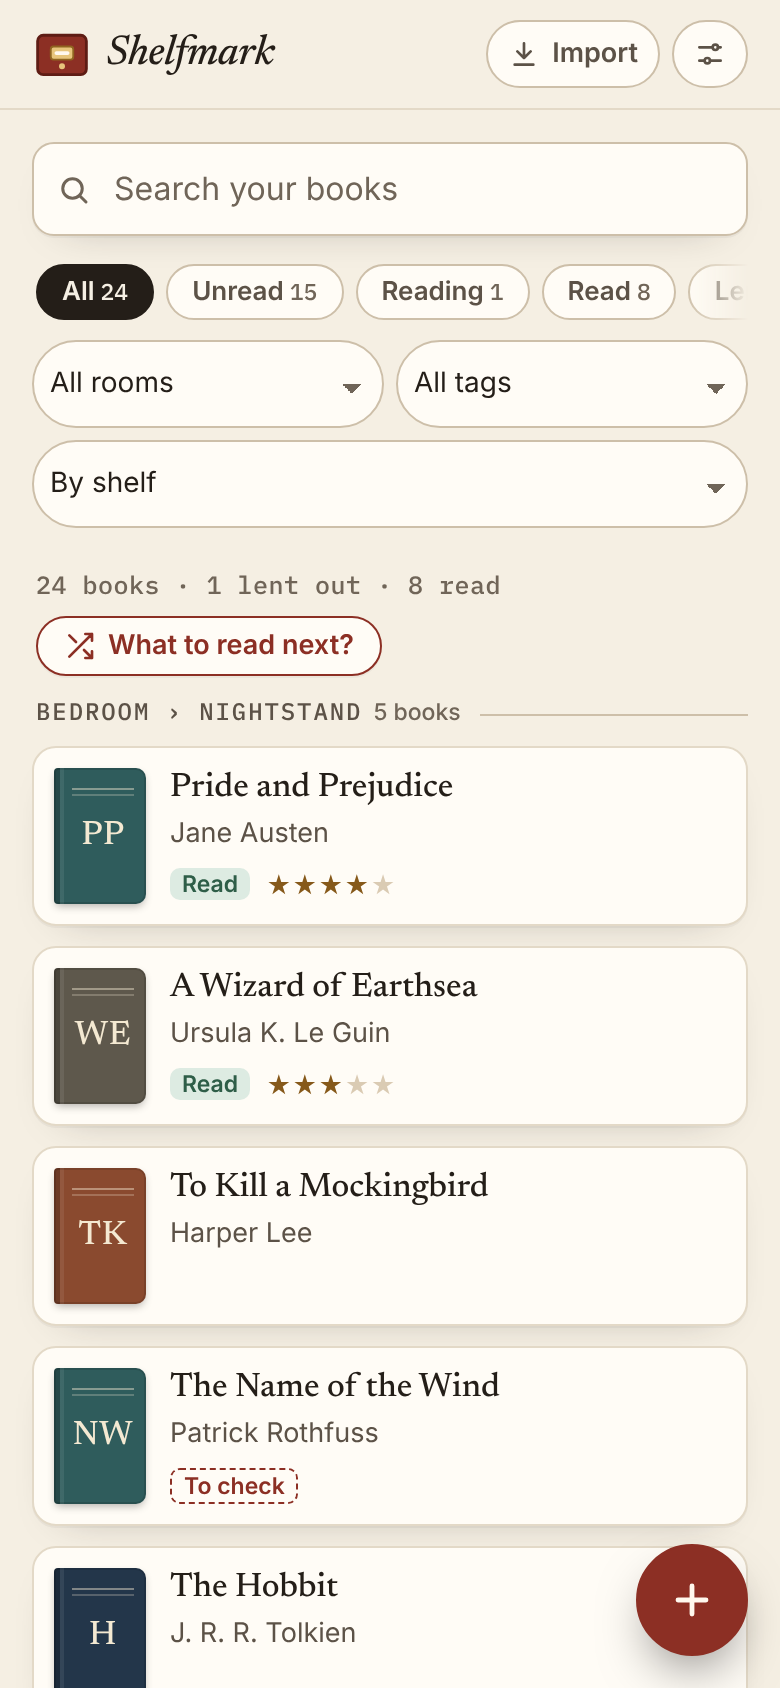
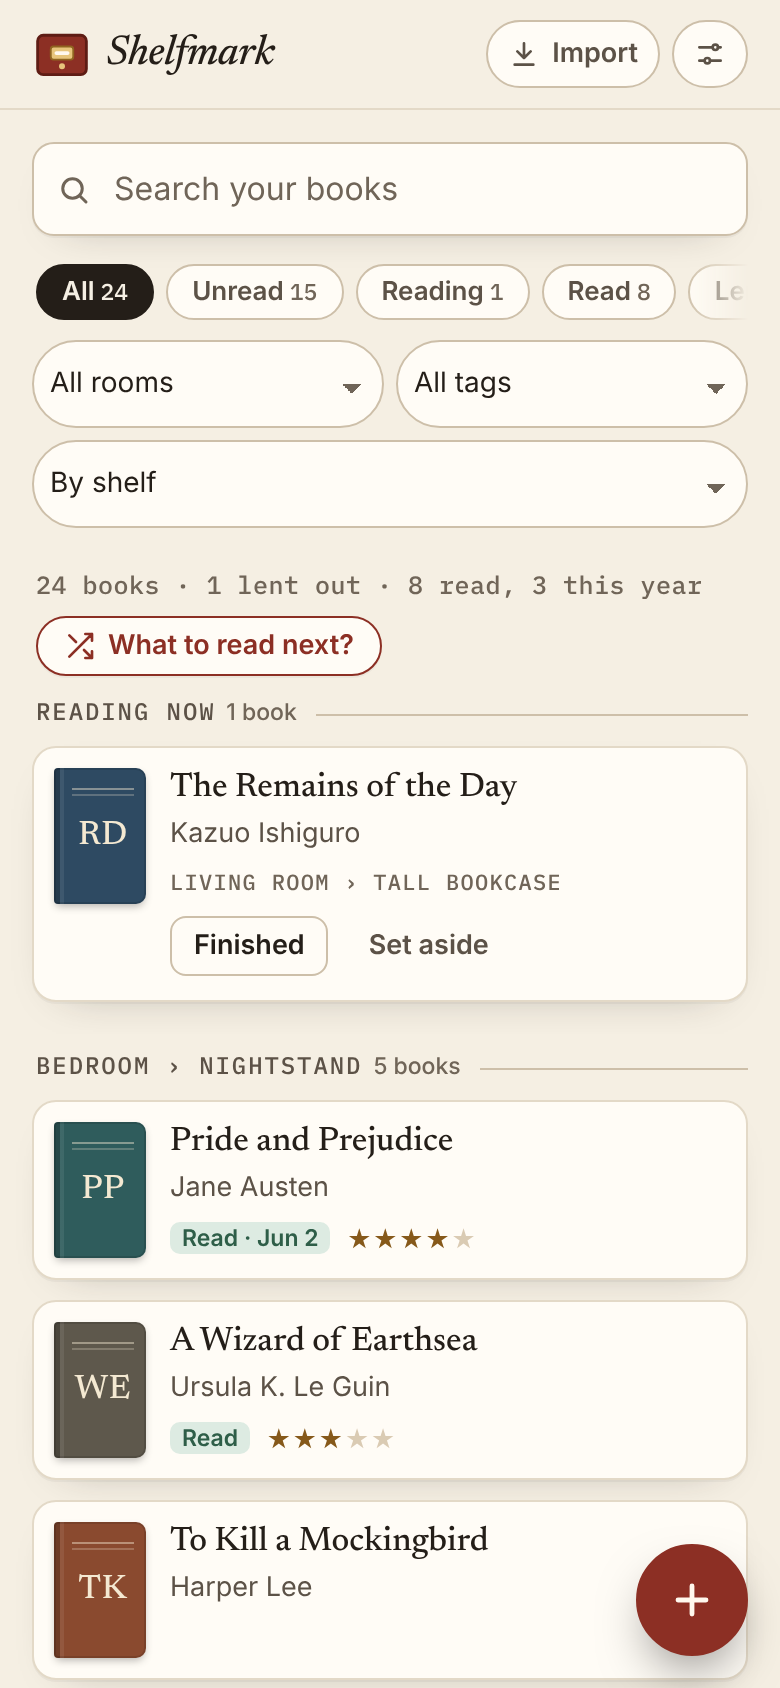
Say in the README what the reading-life changes do, and redraw its pictures
The README now describes Set aside and the day a book was finished
(with the yearly count and Recently finished), Reading now with
Finished and Rate it, Mark what you've read, and the wishlist, and what
the tests check of each. The sample library behind the pictures gives
a few read books the day they were finished, so the shelves picture
starts with Reading now and shows a Read badge with its day, the count
says "8 read, 3 this year", and What to read next's reason reads "You
finished “Housekeeping” in March and gave it 5 stars"; the link preview
starts with Reading now too. The pictures' descriptions say so.

Claude-Session: https://claude.ai/code/session_01LTHvo7Z5hkZa4XvN3zH5Na

diff --git a/README.md b/README.md
@@ -5,11 +5,11 @@
 **A catalog for the books in your house: what you have, where each one is, what you've read, and who borrowed what.** Photograph a shelf, send the photos to Claude, and open the link it gives you: Shelfmark shows the books to check, with the ones you already own unticked, before anything is added. Your catalog stays in your browser, and in your own Google Drive if you turn on sync.
 
 <p align="center">
-  <img src="docs/phone-shelves.png" alt="The library on a phone, sorted by shelf: under Bedroom › Nightstand, Pride and Prejudice and A Wizard of Earthsea are marked Read with their stars, The Name of the Wind is flagged To check, and To Kill a Mockingbird and The Hobbit wait unread" width="250">
+  <img src="docs/phone-shelves.png" alt="The library on a phone, sorted by shelf, 24 books, 8 read, 3 this year: Reading now has The Remains of the Day with Finished and Set aside; then under Bedroom › Nightstand, Pride and Prejudice (read on June 2) and A Wizard of Earthsea are marked Read with their stars, and To Kill a Mockingbird waits unread" width="250">
   &nbsp;
   <img src="docs/phone-review.png" alt="Add books from Claude: five books from a photo of the hall console table, to be shelved in Hall › Console table, with The Overstory flagged to check for glare over the author and Piranesi unticked because it's already in the library" width="250">
   &nbsp;
-  <img src="docs/phone-next.png" alt="What to read next, for fiction in a reflective mood, leaning toward favorite authors: try Gilead by Marilynne Robinson, an old preacher in 1950s Iowa writing a long letter to his young son; literary fiction, reflective and hopeful, slow, with short chapters; because you gave Housekeeping 5 stars and your note says to read it slowly; it's on Study › Desk shelf, with Already read it below. Or War and Peace." width="250">
+  <img src="docs/phone-next.png" alt="What to read next, for fiction in a reflective mood, leaning toward favorite authors: try Gilead by Marilynne Robinson, an old preacher in 1950s Iowa writing a long letter to his young son; literary fiction, reflective and hopeful, slow, with short chapters; because you finished Housekeeping in March and gave it 5 stars, and your note says to read it slowly; it's on Study › Desk shelf, with Already read it below. Or War and Peace." width="250">
 </p>
 
 ## How it works
@@ -18,11 +18,14 @@
   - title, subtitle, authors
   - ISBN, publisher, year, pages, format
   - where it is: a room and a shelf, in your own words; one typed with other capitals ("Living Room") goes into the one you have ("Living room")
-  - unread, reading or read, and a rating (stars given to an unread book mark it read)
+  - unread, reading, read or set aside (one you gave up, kept out of What to read next), the day you finished it, and a rating (stars given to an unread book mark it read; Read fills in today as the day finished, to change or empty)
   - who you lent it to, and since when
   - tags and notes
   - edition details: signed, first edition, condition, printing
-- **Find things.** Search matches every field you’d type for: borrowers, a book's Check note, its edition ("signed", "first edition", "hardcover") and its reading details ("slow pace", "short chapters") included. Each word you type finds the words it starts, so "tolk" finds Tolkien but "fiction" doesn't find nonfiction, and an apostrophe can be typed straight, curly or not at all; a number is found anywhere (part of an ISBN, a year), and so is a piece of a Chinese, Japanese or Korean title. Filters cover status, lent out, to check, room and tag. Sort by author, title, shelf (grouped under each room and shelf), or newest first.
+- **Find things.** Search matches every field you’d type for: borrowers, a book's Check note, its edition ("signed", "first edition", "hardcover") and its reading details ("slow pace", "short chapters") included. Each word you type finds the words it starts, so "tolk" finds Tolkien but "fiction" doesn't find nonfiction, and an apostrophe can be typed straight, curly or not at all; a number is found anywhere (part of an ISBN, a year), and so is a piece of a Chinese, Japanese or Korean title. Filters cover status, lent out, to check, the wishlist, room and tag. Sort by author, title, shelf (grouped under each room and shelf), newest first, or recently finished (the Read list is in that order). The count says how many you've read this year.
+- **Reading now.** With no search or filter on, the list starts with the books you're reading (they're in their place below too). **Finished** marks one read today, with Undo and **Rate it**, which opens its card at the stars; **Set aside** gives one up.
+- **Mark what you've read.** **Settings › Mark what you've read** lists your unread books shelf by shelf, each with a tick, and a Shelf menu narrows it to one bookcase, to stand in front of it and tick what you've read. **Mark 12 as read** marks them all at once, with Undo. What to read next offers it too, while no book is marked read.
+- **A wishlist.** A book you want rather than have is kept apart: it's out of the counts, rooms, shelves and What to read next, with its own **Wishlist** chip, and a search shows it with a **Wanted** badge, so one search in a shop answers both "do I own it?" and "did I mean to buy it?". Add one by hand (from the Wishlist chip, or tick **On my wishlist**), or from Claude (a photo of a shop's table, or a list). **Got it** on its card brings it home, added today; adding the same book to the house, by hand or from a shelf's photo, takes it off the list.
 - **Add from photos.** Claude reads spines, covers, barcodes and copyright pages and makes a Shelfmark link. Opening it shows the list first. There you can:
   - see what the batch says of each book (read or reading, stars, a loan, a signed copy or first edition, the format, its reading details and a line about it), and fix titles and authors, a long title shown whole, each checked against your library again as you type;
   - put the whole batch on one shelf (a book going somewhere else says where, as you type), and mark it all read (**I’ve read all of these**: a book the batch says you're reading stays Reading);
@@ -30,16 +33,16 @@
   - see anything Claude wasn't sure of, marked **Check**.
   Checked books keep a **To check** filter until you say they're right. **Undo** on the toast after adding takes the whole batch back out, and closing the list without adding says to tap the link in Claude again when you're ready.
 - **Reading details.** Claude can add what each book is like: fiction, nonfiction or poetry; genres; moods (funny, tense, reflective…); pace; chapter length; whether it's read cover to cover, dipped into, or browsed (cookbooks, picture books, reference); a line about it; and a page count where there's none. Ask Claude with the Shelfmark skill, and it reads your library (from Drive, or a backup you send) and hands back a link. Opening it shows the list, then fills in only what each book doesn't have yet. Each book's card has a **Reading details** section to change them by hand.
-- **What to read next.** Tap **What to read next?** for a suggestion from the unread books you have on hand (lent-out books, and books you browse rather than read, are left out), with two more to choose from. Each book counts once, however many copies you have, and a copy of one you've read or are reading doesn't come up; the volumes of a set come in order, the next one once you've read the one before ("Next in the set: you've read Book 1").
+- **What to read next.** Tap **What to read next?** for a suggestion from the unread books you have on hand (books lent out, set aside or on the wishlist, and books you browse rather than read, are left out), with two more to choose from. Each book counts once, however many copies you have, and a copy of one you've read or are reading doesn't come up; the volumes of a set come in order, the next one once you've read the one before ("Next in the set: you've read Book 1").
   - With reading details, choose fiction, nonfiction or poetry, the moods you're in for (any of those picked), and short chapters or something to dip into. **More choices** has genre, pace, tag, room, and books you browse.
   - Narrow it by length (short is under 250 pages, long over 450), once some of your books have a page count.
   - Lean it toward books **waiting longest** or the **newest arrivals**, once books were added on different days, or toward **favorite authors** (ones whose books you've read and rated highly), once one of theirs is waiting unread. **Surprise me** is a plain random pick. Only the choices that would bring a pick are offered: with Poetry chosen, only the moods, paces, lengths, rooms and tags your poems have.
   - Tick **Include rereads** to bring back books you gave four or five stars; the notes say when one of them would match.
   - When nothing matches, a button puts the choice in the way back to Any ("Any length · 14 books"), or **Clear these choices** starts over.
-  - Each suggestion has its line and details, says why in plain words ("You gave “Housekeeping” 5 stars", "Your note: …"), and which shelf it's on. **Pick again** works through every match before repeating one, and never shows the same pick twice running. **Already read it** marks it Read and picks again, and **Start reading** marks it Reading and says where it is.
+  - Each suggestion has its line and details, says why in plain words ("You finished “Housekeeping” in March and gave it 5 stars", "Your note: …"), and which shelf it's on. **Pick again** works through every match before repeating one, and never shows the same pick twice running. **Already read it** marks it Read and picks again, and **Start reading** marks it Reading and says where it is.
   - Your choices are remembered on each device.
 - **Covers and lookups** from Open Library, only if you turn them on in Settings. Covers are found by ISBN, or by title and author for a book without one (so a cover may show another edition), and each cover's id is remembered in the browser. Lookups send the ISBN, title and author, nothing else.
-- **Backups.** Download the whole library as a file, and open it on any device (it merges, after saying how many books it would add, change or remove). There's a spreadsheet (CSV) too, to read or print; it doesn't open back in Shelfmark.
+- **Backups.** Download the whole library as a file, and open it on any device (it merges, after saying how many books it would add, change or remove). There's a spreadsheet (CSV) too, to read or print, with the day each book was finished; it doesn't open back in Shelfmark.
 - No account and no server. Your catalog stays in your browser, and in your Google Drive if you turn on sync. It installs as an app (from the browser's menu, or Share → Add to Home Screen on an iPhone) and works offline; covers and looking up a book's details need a signal.
 
 ## Your data
@@ -98,7 +101,7 @@ Then open **Settings › Connect Google Drive** on each device you use. The copy
 2. checks each ISBN's check digit, so a misread ISBN is dropped and flagged rather than guessed;
 3. hands the books to Shelfmark as a link and a `.shelfmark.json` file.
 
-It can also convert a Goodreads or LibraryThing export, leaving out the books on your to-read shelf or wishlist that aren't in the house (it asks first). With a Google Drive connector, it can answer questions about your library by reading the library file, which it never changes.
+It can also convert a Goodreads or LibraryThing export, keeping the day you read each book, and leaving out the books on your to-read shelf or wishlist that aren't in the house, or putting them on Shelfmark's wishlist (it asks). A photo of a shop's table, or a list of books to buy, comes in on the wishlist. With a Google Drive connector, it can answer questions about your library by reading the library file, which it never changes.
 
 To add it to Claude:
 1. Download this repository (**Code › Download ZIP** on GitHub) and unzip it.
@@ -141,18 +144,19 @@ To put it online with GitHub Pages: **Settings → Pages → Build and deploymen
 
 ### Tests
 
-`npm test` runs two tests. `node test/e2e.mjs` uses the real page in Chromium (it needs Playwright), and nothing in it reaches the internet. It opens a link made by the skill's script, adds the books, edits one, and checks it all survives a reload and a reload offline, at phone size, with nothing scrolling sideways and nothing loaded from elsewhere. It also has two tabs, and two devices sharing a stand-in Google Drive, change the same book; has a phone behind Drive open links for books a laptop added, and a new phone on a slow connection bring the library in; and it checks the review screen's shelving and order, what it shows of each book, Undo after adding, batches too big to take at once, links that are cut short or pasted, spreadsheets opened by mistake and the spreadsheet downloaded, reading details coming in from a link and changed on a book's card, What to read next choosing by them, erasing a device, signing back in to Google, the Back button, contrast, and the keyboard and screen readers in the sheets. Its server answers the way GitHub Pages does (a browser may keep each file ten minutes, then asks again by its ETag), and it checks that the offline copy opens with the server down, and within 8 seconds on a connection that doesn't answer; that a new release's copy comes from the server, not the browser's old copies; that Chromium would install it; and that `FILES` in `sw.js` matches the files it keeps (when a release changes one, the failure says what to set it to).
+`npm test` runs two tests. `node test/e2e.mjs` uses the real page in Chromium (it needs Playwright), and nothing in it reaches the internet. It opens a link made by the skill's script, adds the books, edits one, and checks it all survives a reload and a reload offline, at phone size, with nothing scrolling sideways and nothing loaded from elsewhere. It also has two tabs, and two devices sharing a stand-in Google Drive, change the same book; has a phone behind Drive open links for books a laptop added, and a new phone on a slow connection bring the library in; and it checks the review screen's shelving and order, what it shows of each book, Undo after adding, batches too big to take at once, links that are cut short or pasted, spreadsheets opened by mistake and the spreadsheet downloaded, reading details coming in from a link and changed on a book's card, What to read next choosing by them, the day a book was finished and books set aside, Reading now's Finished and Rate it, marking a shelf read at once, the wishlist (and a book coming off it into the house), erasing a device, signing back in to Google, the Back button, contrast, and the keyboard and screen readers in the sheets. Its server answers the way GitHub Pages does (a browser may keep each file ten minutes, then asks again by its ETag), and it checks that the offline copy opens with the server down, and within 8 seconds on a connection that doesn't answer; that a new release's copy comes from the server, not the browser's old copies; that Chromium would install it; and that `FILES` in `sw.js` matches the files it keeps (when a release changes one, the failure says what to set it to).
 
 `node test/library.test.js` has no dependencies. It reads the logic straight out of `index.html` and checks:
 - **ISBNs:** ISBN-10 to ISBN-13 conversion, and check digits.
-- **Cleaning:** every field is trimmed, clamped and mapped, and a book cleaned again comes out the same (text cut at its limit, emoji, a "Jr." after an empty name, long ids, ids like `constructor`).
+- **Cleaning:** every field is trimmed, clamped and mapped, and a book cleaned again comes out the same (text cut at its limit, emoji, a "Jr." after an empty name, long ids, ids like `constructor`); a finished day is kept only for a book that's read.
+- **Older copies:** a library with finished days, books set aside and a wishlist opens in Shelfmark as it was before reading details and when they came (from git's history, when it's there), each book as before, and comes back whole when that copy syncs back.
 - **Merging:** hundreds of random libraries merge the same whatever the order, and a later removal or edit wins.
 - **Random books:** a seeded run over thousands of random books, with text at its limits, emoji, odd white space and names with a "Jr.", checks in about half a second that cleaning a book twice gives the same book, that merging rich books is order-free, that reading details change only the details (and a blank page count) and find every copy and never a removed book, and that What to read next, dealt again and again, shows every match before repeating one and never suggests two copies of a book, a later volume before an earlier one, or a book lent out, being read or browsed.
-- **Duplicates:** matched by ISBN, and by title and author surname.
+- **Duplicates:** matched by ISBN, and by title and author surname, the books in the house and those on the wishlist apart.
 - **Links:** compressed, uncompressed, hand-written and pasted links all open (quoted in a reply, with "> " before each line, too), and so does JSON pasted with Claude's words around it (in a code block, or after a line of text); a link cut short or changed in copying says it didn't come through whole.
-- **The skill's script:** it reads numbers as printed ("2 vols, 880", "2nd ed. 1999"), yes or no, authors and tags just as the page does, its link and file open in the page with every field intact, a list of over 3,000 books comes out as numbered files, and Goodreads and LibraryThing exports come in cleaned up. This runs when `python3` is available.
+- **The skill's script:** it reads numbers as printed ("2 vols, 880", "2nd ed. 1999"), yes or no, authors and tags just as the page does, its link and file open in the page with every field intact, a list of over 3,000 books comes out as numbered files, and Goodreads and LibraryThing exports come in cleaned up, with the day each book was read, and the books not in the house on the wishlist when asked. This runs when `python3` is available.
 - **Spreadsheet export:** quoting, and defusing cells that would otherwise run as formulas (those starting with = + - @, a tab or a line break, or a full-width ＝ ＋ － ＠, as OWASP's CSV Injection page lists them), leaving plain numbers alone.
-- **What to read next:** which books can be suggested (one copy of each, the first unread volume of a set), that each lean and each mood picked pulls the way it says, the reasons given, that every match comes up before any repeats, that each choice offered brings a pick or says what would, and the choices to put back to Any when nothing matches.
+- **What to read next:** which books can be suggested (one copy of each, the first unread volume of a set, none set aside or on the wishlist), that each lean and each mood picked pulls the way it says, the reasons given (when a favorite was finished, too), that every match comes up before any repeats, that each choice offered brings a pick or says what would, and the choices to put back to Any when nothing matches.
 - **Reading details:** words and labels are mapped onto Shelfmark's, details find their book by id, or else every copy with its ISBN or title and author (two translations each get their own, and a copy with the entry's ISBN always gets it), count each book once and only when it changes, fill only blanks (or replace when asked) and never a page count already there, and the skill's script and the page know the same words.
 - **The format reference:** the skill's `references/shelfmark-format.md`, which Claude reads to write a batch by hand, names every word Shelfmark knows for a format, condition, status and reading detail, and the limits it keeps (300 characters for a title, 3,000 books a batch and the rest); a failure names the row to fix.
 
